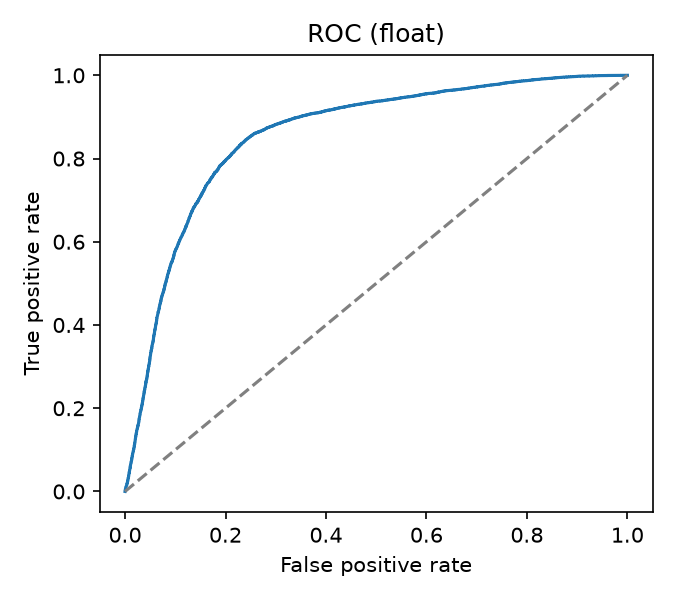
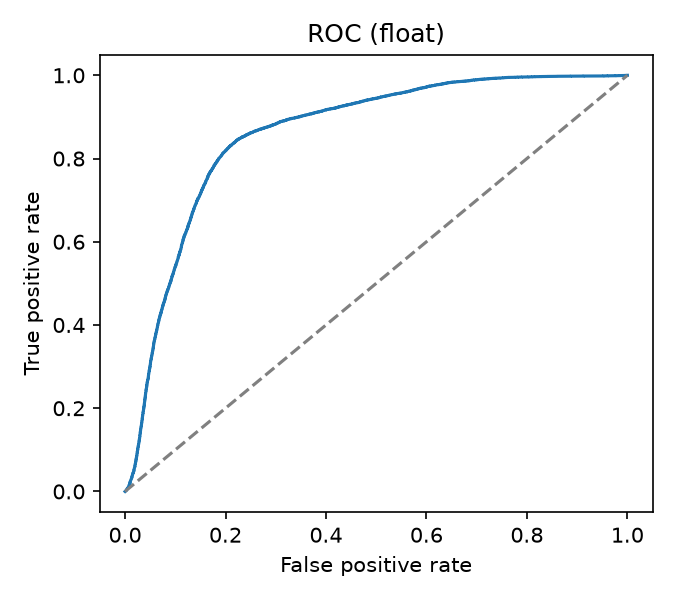
Mean scoring, val-based thresholds, operating-point table: AUROC 0.860

diff --git a/src/evaluate.py b/src/evaluate.py
@@ -1,4 +1,5 @@
-"""Evaluate the float model on held-out patients (DS2)."""
+"""Evaluate the float model on held-out patients (DS2).
+Thresholds are chosen on validation-normal windows only (never on test)."""
 import json
 import numpy as np
 from sklearn.metrics import roc_auc_score
@@ -6,26 +7,46 @@ from tensorflow import keras
 
 from . import config as C
 from .dataset import build_split
-from .metrics import summarize, plot_diagnostics
-from .model import recon_error
+from .metrics import summarize, plot_diagnostics, sweep_thresholds
 from .scoring import scores_from_sq
+
+
+def sq_error(model, X):
+    pred = model.predict(X, batch_size=512, verbose=0)
+    return ((X - pred) ** 2)[..., 0]
 
 
 def main():
     model = keras.models.load_model(C.MODELS_DIR / "autoencoder.keras")
-    thr = json.load(open(C.MODELS_DIR / "threshold_float.json"))["threshold"]
-    print("Loading test split..."); X, y, rec = build_split("test")
-    pred = model.predict(X, batch_size=512, verbose=0)
-    sq = ((X - pred) ** 2)[..., 0]
-    print(f"Score mode = {C.SCORE_MODE}.  AUROC by score type (threshold-free):")
+    print("Loading splits...")
+    Xv, yv, _ = build_split("val")
+    X, y, rec = build_split("test")
+    sq = sq_error(model, X)
+
+    print(f"\nAUROC by score type (threshold-free), configured mode = {C.SCORE_MODE}:")
     for m in ("mean", "peak"):
         print(f"  {m:5s} {roc_auc_score(y, scores_from_sq(sq, m)):.4f}")
+
     err = scores_from_sq(sq)
+    err_val_n = scores_from_sq(sq_error(model, Xv[yv == 0]))
+    thr = float(np.percentile(err_val_n, C.THRESHOLD_PERCENTILE))
     res = summarize(y, err, thr)
     plot_diagnostics(y, err, thr, "float")
     json.dump(res, open(C.RESULTS_DIR / "float_metrics.json", "w"), indent=2)
+    json.dump({"threshold": thr, "percentile": C.THRESHOLD_PERCENTILE, "mode": C.SCORE_MODE},
+              open(C.MODELS_DIR / "threshold_float.json", "w"), indent=2)
+    print(f"\nMain result (threshold = val p{C.THRESHOLD_PERCENTILE}):")
     for k, v in res.items():
-        print(f"{k:24s} {v}")
+        print(f"  {k:24s} {v}")
+
+    rows = sweep_thresholds(err_val_n, y, err)
+    json.dump(rows, open(C.RESULTS_DIR / "operating_points_float.json", "w"), indent=2)
+    print("\nOperating points (threshold from val percentile):")
+    print(f"  {'val_pct':>7s} {'recall':>8s} {'specif':>8s} {'precis':>8s} {'FA/hour':>9s}")
+    for r in rows:
+        print(f"  {r['val_percentile']:7d} {r['recall_sensitivity']:8.3f} {r['specificity']:8.3f} "
+              f"{r['precision']:8.3f} {r['false_alarms_per_hour']:9.1f}")
+
     print("\nPer-record AUROC (records with both classes):")
     for r in np.unique(rec):
         m = rec == r

diff --git a/src/metrics.py b/src/metrics.py
@@ -44,3 +44,13 @@ def plot_diagnostics(y, err, thr, tag):
     plt.axvline(thr, c="k", ls="--", label="threshold")
     plt.xlabel("Reconstruction MSE"); plt.legend(); plt.title(f"Error distribution ({tag})")
     plt.tight_layout(); plt.savefig(C.RESULTS_DIR / f"errhist_{tag}.png", dpi=150); plt.close()
+
+
+def sweep_thresholds(err_val_normal, y, err, percentiles=(80, 90, 95, 97, 98, 99)):
+    """Thresholds come from VALIDATION-normal scores only; metrics are measured on test."""
+    rows = []
+    for p in percentiles:
+        r = summarize(y, err, float(np.percentile(err_val_normal, p)))
+        r["val_percentile"] = p
+        rows.append(r)
+    return rows

diff --git a/src/config.py b/src/config.py
@@ -46,5 +46,5 @@ SEED = 42
 THRESHOLD_PERCENTILE = 99.0   # of reconstruction error on validation-normal windows
 
 # --- Anomaly score ---
-SCORE_MODE = "peak"   # "mean" or "peak" (see scoring.py)
+SCORE_MODE = "mean"   # "mean" or "peak" (see scoring.py)
 PEAK_POOL = 36        # 0.2 s at 180 Hz
